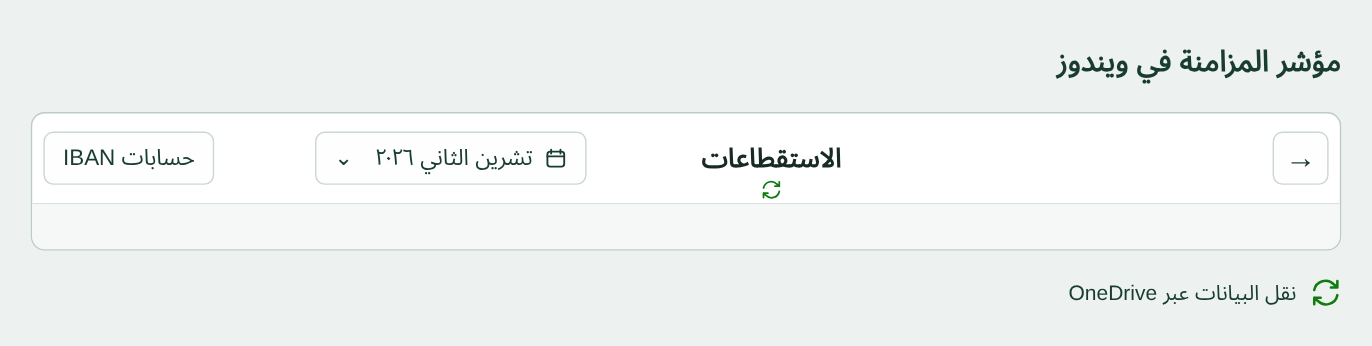
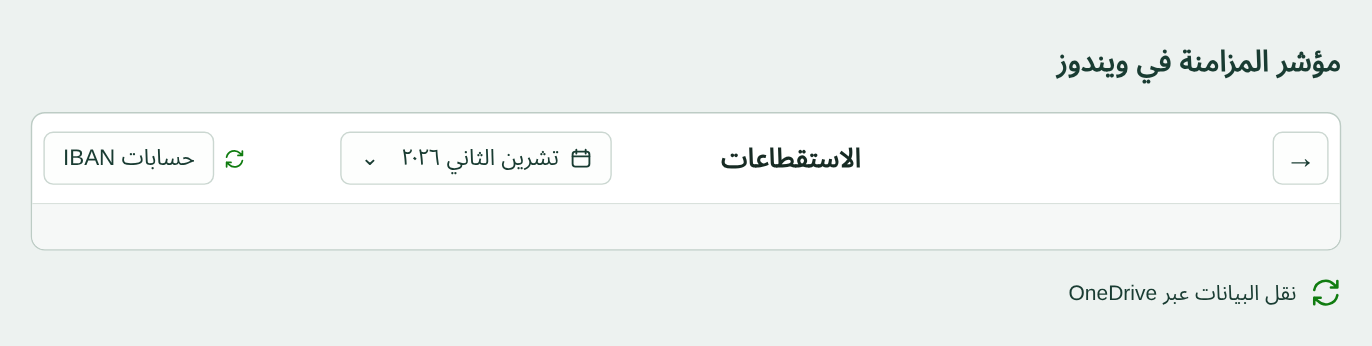
Place the Windows sync indicator beside the IBAN directory
Reserve a fixed slot between the directory button and working month on wide and compact windows.

diff --git a/windows/Desktop/MainWindow.xaml b/windows/Desktop/MainWindow.xaml
@@ -68,7 +68,7 @@
   </DockPanel>
 </Border>
 <Grid Grid.Column="1"><Grid.RowDefinitions><RowDefinition Height="65"/><RowDefinition Height="*"/><RowDefinition Height="Auto"/></Grid.RowDefinitions>
-<Border Background="{DynamicResource ControlSolidFillColorDefaultBrush}" BorderBrush="{DynamicResource CardStrokeColorDefaultBrush}" BorderThickness="0,0,0,1" Padding="8,0"><Grid><Grid.ColumnDefinitions><ColumnDefinition MinWidth="40"/><ColumnDefinition/><ColumnDefinition/><ColumnDefinition Width="Auto"/></Grid.ColumnDefinitions>
+<Border Background="{DynamicResource ControlSolidFillColorDefaultBrush}" BorderBrush="{DynamicResource CardStrokeColorDefaultBrush}" BorderThickness="0,0,0,1" Padding="8,0"><Grid><Grid.ColumnDefinitions><ColumnDefinition MinWidth="40"/><ColumnDefinition/><ColumnDefinition/><ColumnDefinition Width="28"/><ColumnDefinition Width="Auto"/></Grid.ColumnDefinitions>
 <Grid Grid.Column="0">
   <Grid.ColumnDefinitions><ColumnDefinition Width="40"/><ColumnDefinition Width="*"/></Grid.ColumnDefinitions>
   <Button x:Name="BackButton" Grid.Column="0" Height="40" Padding="0" Click="BackClick" IsEnabled="False"
@@ -78,8 +78,8 @@
 </Grid>
 <TextBlock Foreground="{DynamicResource TextFillColorPrimaryBrush}" x:Name="PageTitle" Grid.Column="1" FontWeight="Bold" FontSize="{DynamicResource UiFont19}" TextAlignment="Center" VerticalAlignment="Center"/>
 <TextBlock Grid.Column="1" Text="البحث الشامل" Visibility="{Binding Visibility, ElementName=SearchLayer}" FontWeight="Bold" FontSize="{DynamicResource UiFont19}" HorizontalAlignment="Center" VerticalAlignment="Center"/>
-<Viewbox x:Name="SyncTransferIndicator" Grid.Column="1" Width="15" Height="15" Margin="0,0,0,2"
-         HorizontalAlignment="Center" VerticalAlignment="Bottom" Visibility="Hidden" IsHitTestVisible="False"
+<Viewbox x:Name="SyncTransferIndicator" Grid.Column="3" Width="15" Height="15"
+         HorizontalAlignment="Center" VerticalAlignment="Center" Visibility="Hidden" IsHitTestVisible="False"
          RenderTransformOrigin=".5,.5" AutomationProperties.Name="جارٍ نقل بيانات OneDrive">
   <Viewbox.RenderTransform><RotateTransform x:Name="SyncTransferRotation"/></Viewbox.RenderTransform>
   <Canvas Width="24" Height="24" FlowDirection="LeftToRight">
@@ -90,7 +90,7 @@
 </Viewbox>
 <ComboBox Grid.Column="2" x:Name="Period" Tag="WorkingMonth" ItemTemplate="{StaticResource DisplayNumberItem}" Height="40" HorizontalAlignment="Left" VerticalAlignment="Center"
           ToolTip="شهر العمل" AutomationProperties.Name="شهر العمل" SelectionChanged="PeriodChanged"/>
-<Button x:Name="AccountDirectoryButton" Grid.Column="3" Height="40" Margin="6,0,0,0" Click="OpenAccountDirectory" ToolTip="دليل الحسابات المصرفية (IBAN)" AutomationProperties.Name="دليل الحسابات المصرفية" Content="حسابات IBAN"/>
+<Button x:Name="AccountDirectoryButton" Grid.Column="4" Height="40" Margin="6,0,0,0" Click="OpenAccountDirectory" ToolTip="دليل الحسابات المصرفية (IBAN)" AutomationProperties.Name="دليل الحسابات المصرفية" Content="حسابات IBAN"/>
 </Grid></Border>
 <DockPanel Grid.Row="1">
   <Button x:Name="UpdateNotice" DockPanel.Dock="Top" Visibility="Collapsed" Click="OpenUpdate" HorizontalContentAlignment="Center" Margin="8,4" Background="{DynamicResource SystemFillColorSuccessBackgroundBrush}"/>

diff --git a/AGENTS.md b/AGENTS.md
@@ -235,7 +235,7 @@
 - الاسترجاع على أي جهاز: «استرجاع من نسخة» أو اختيار الملف من «استيراد ملفات».
 - لتصدير النسخة إلى Google Drive أو OneDrive استخدم «مشاركة نسخة الآن».
 - إعدادات OneDrive دائمة على الجهازين. يفعّل المستخدم الربط بحسابه الشخصي، وتُحفظ جلسة Microsoft محلياً في Keychain أو DPAPI. يتبادل الجهازان بيانات النسخة المحمولة داخل مجلد التطبيق، وتُحسم التعديلات المتزامنة على القيد المختلف. ملفات وتجارب الدفعات القديمة منفصلة عن بيانات المزامنة. فحص المسار ببيانات وهمية عبر `cd sync/workspace && go test ./...`.
-- على الآيفون يظهر مؤشر نقل OneDrive الصغير أسفل منتصف شريط العنوان أثناء رفع أجزاء البيانات أو استلامها ويختفي عند انتهاء النقل. في ويندوز يظهر المؤشر نفسه أسفل عنوان القسم في الشريط الثابت ويأخذ إعداد الحركة في النظام بالحسبان. معاينتا التصميم في `docs/design/iphone-sync-indicator.png` و`docs/design/windows-sync-indicator.png`.
+- على الآيفون يظهر مؤشر نقل OneDrive الصغير أسفل منتصف شريط العنوان أثناء رفع أجزاء البيانات أو استلامها ويختفي عند انتهاء النقل. في ويندوز يظهر المؤشر نفسه إلى يمين زر حسابات IBAN بين الزر وحقل الشهر في الشريط الثابت ويأخذ إعداد الحركة في النظام بالحسبان. معاينتا التصميم في `docs/design/iphone-sync-indicator.png` و`docs/design/windows-sync-indicator.png`.
 - سجل OneDrive يعرض سلسلة النقاط المؤكدة بتوقيت الجهاز، ويقرأ التاريخ من OneDrive حتى للنقاط التي أنشأها الإصدار 2.1. بعد الاستعادة يبدأ جيل جديد، وتراجع الأجهزة تعديلاتها السابقة غير المرسلة. تتوقف النسخ القديمة التي لا تعرف الجيل عن المزامنة حتى تحديثها. فترة الفحص الافتراضية 15 دقيقة أثناء الاستخدام، وتضبط مستقلة على كل جهاز. صورة الواجهة في `docs/design/onedrive-history.png`.
 - تاريخياً، مزامنة دفعة إعادة محفوظة تبدأ من سجل الإعادة في الجهاز المرسل، ومن «استلام الدفعة من OneDrive» في الجهاز الآخر. يربط مجلد التطبيق دفعة واحدة بمعرّفها المنطقي، ويحفظ ملفاً مستقلاً لكل مراجعة مع بصمة المحتوى ومراجعها السابقة. عند تعارض التعديلات يختار المستخدم النسخة المطلوبة. تُحفظ الدفعة المستلمة في الأرشيف المعتاد وتدخل ضمن النسخة الاحتياطية. تقتصر الجلسة والتحديث الدوري على شاشة المزامنة بعد تسجيل الدخول. اختبار المنطق ببيانات وهمية في `ci/saved_refund_sync_test.cjs` ومعاينة الشاشة في `docs/design/saved-refund-sync.png`.
 
